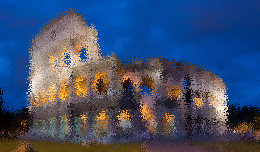
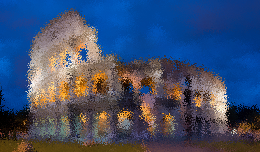
Updated examples for edge detection

Changed region(s): [[0.0, 0.0526, 1.0, 1.0], [0.8308, 0.9737, 0.8923, 1.0]]

diff --git a/README.md b/README.md
@@ -1,9 +1,12 @@
 ## Scrimage
 
-Scrimage is a Scala library for image manipulating, processing and filtering. The aim of the this library is to provide a
+Scrimage is a Scala library for image manipulating and filtering. The aim of the this library is to provide a
 quick and easy way to do the kinds of image operations that most people need, on a daily basis, such as scaling, rotating,
 converting between formats and applying filters. It is not intended to provide functionality that might be required by a
-more "serious" image application - such as a lightroom clone.
+more "serious" image application - such as face recognition or movement detection.
+
+A typical use case for this library would be creating thumbnails of images uploaded by users in a web app, or resizing a
+set of images to have a consistent size, or applying an unblur filter to all images in a print application.
 
 Scrimage has a consistent, idiomatic scala, and mostly immutable API for accessing images.
 I say mostly immutable because for some operations creating a copy of the underlying image
@@ -84,7 +87,7 @@ println(s"Width: ${image.width} Height: ${image.height} Ratio: ${image.ratio}")
 ### Filters
 
 Scrimage comes with a wide array (or Seq ;) of filters. Most of these filters I have not written myself,
-but rather collected from other open source imaging libraries (for compliance with licenses and / or attribute - see file headers),
+but rather collected from other open source imaging libraries (for compliance with licenses and / or attribution - see file headers),
 and either re-written them in Scala, wrapped them in Scala, or fixed bugs and modified them.
 
 | Filter Name | Example 1 | Example 2 |
